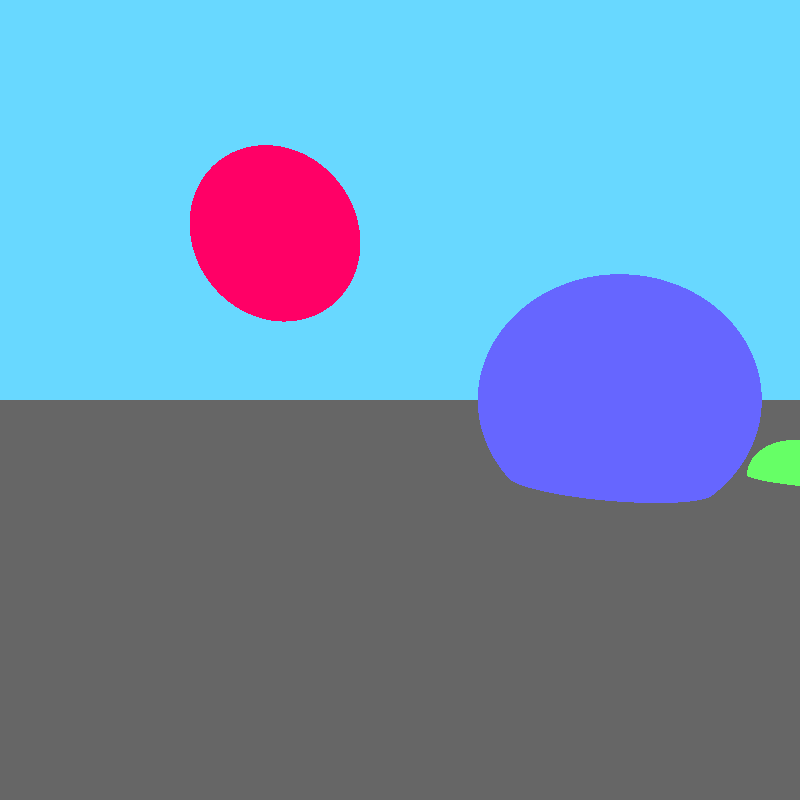
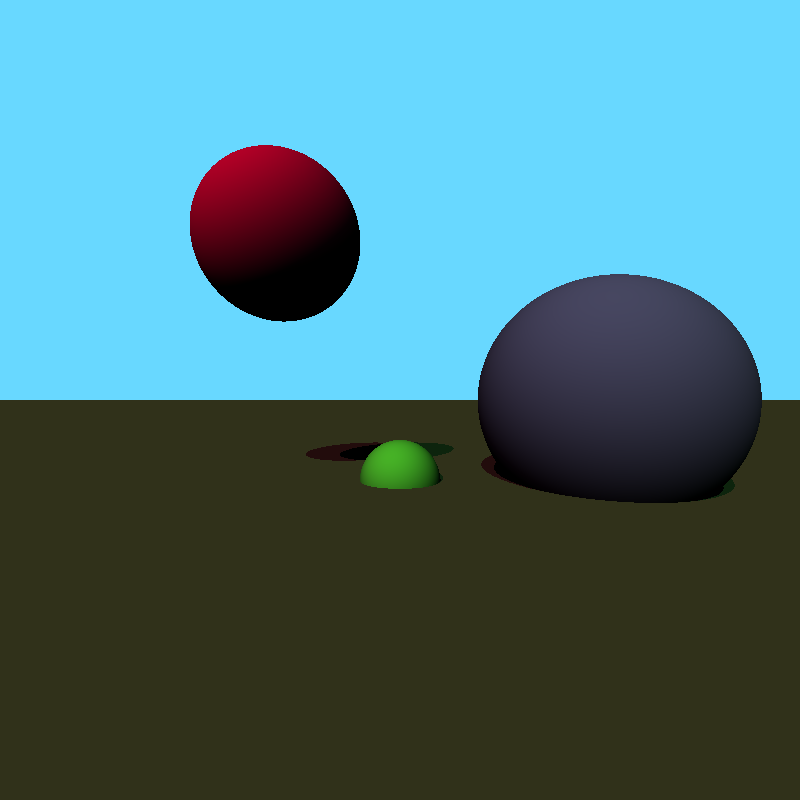
feat: basic lighting and shadows

diff --git a/src/main.rs b/src/main.rs
@@ -6,6 +6,7 @@ use pbrt::point::Point;
 use pbrt::rendering::{Intersectable, Ray};
 use pbrt::scene::{Color, Element, Plane, Scene, Sphere};
 use pbrt::vector3::Vector3;
+use pbrt::light::Light;
 
 mod pbrt;
 
@@ -28,7 +29,14 @@ fn main() {
     b: 1.0,
   };
 
+  let _white = Color {
+    r: 1.0,
+    g: 1.0,
+    b: 1.0,
+  };
+
   let scene = Scene {
+    shadow_bias: 1e-13,
     width: 800,
     height: 800,
     fov: 90.0,
@@ -37,19 +45,34 @@ fn main() {
       g: 0.85,
       b: 1.0,
     },
+    lights: vec![
+      Light { 
+        color: Color { r: 0.3, g: 0.8, b: 0.3},
+        direction: Vector3 {x: 0.25, y: -1.0, z: -1.0},
+        intensity: 10.0
+      },
+      Light { 
+        color: Color { r: 0.8, g: 0.3, b: 0.3},
+        direction: Vector3 {x: 0.25, y: -0.5, z: -0.5},
+        intensity: 10.0
+      }
+    ],
     entities: vec![
       Element::Plane(Plane {
-        origin: Point::new(0.0, -2.0, -5.0),
+        origin: Point::new(0.0, -2.0, 0.0),
         normal: Vector3::down(),
         color: Color {
           r: 0.4,
           g: 0.4,
           b: 0.4,
         },
+        albedo: 0.2,
       }),
-      Element::Sphere(Sphere::new(Point::new(-3.0, 4.0, -10.0), 2.0, red)),
-      Element::Sphere(Sphere::new(Point::new(0.0, -2.0, -10.0), 1.0, green)),
-      Element::Sphere(Sphere::new(Point::new(5.0, 0.0, -10.0), 3.0, blue)),
+      Element::Sphere(Sphere::new(
+        Point::new(-3.0, 4.0, -10.0), 2.0, red, 0.2),
+      ),
+      Element::Sphere(Sphere::new(Point::new(0.0, -2.0, -10.0), 1.0, green, 0.2)),
+      Element::Sphere(Sphere::new(Point::new(5.0, 0.0, -10.0), 3.0, blue, 0.2)),
     ],
   };
 
@@ -61,8 +84,30 @@ fn render(scene: &Scene) -> ImageBuffer<image::Rgba<u8>, Vec<u8>> {
     let ray = Ray::create_prime(x, y, scene);
 
     if let Some(intersection) = scene.trace(&ray) {
-      let rgba = intersection.object.color().to_rgba();
-      image::Rgba(rgba)
+      let hit_point = ray.origin + (ray.direction * intersection.distance);
+      let surface_normal = intersection.object.surface_normal(&hit_point);
+
+      let mut color = Color {r: 0.0, g: 0.0, b: 0.0};
+
+      for light in &scene.lights {
+
+        let direction_to_light = -light.direction.normalize();
+
+        let shadow_ray = Ray {
+            origin: hit_point + (surface_normal * scene.shadow_bias),
+            direction: direction_to_light,
+        };
+
+        let in_light = scene.trace(&shadow_ray).is_none();
+
+        let light_reflected = intersection.object.albedo() / std::f32::consts::PI;
+
+        let light_intensity = if in_light { light.intensity } else { 0.0 };
+        let light_power = (surface_normal.dot(&direction_to_light) as f32).max(0.0) * light_intensity;
+
+        color = color + intersection.object.color() * light.color * light_power * light_reflected;
+      }
+      image::Rgba(color.clamp().to_rgba())
     } else {
       image::Rgba(scene.background.to_rgba())
     }

diff --git a/src/pbrt/scene.rs b/src/pbrt/scene.rs
@@ -1,10 +1,14 @@
 extern crate image;
 extern crate serde;
 
+use std::ops::{Mul, Add};
 use pbrt::point::Point;
 use pbrt::rendering::{Intersectable, Ray};
 use pbrt::vector3::Vector3;
+use pbrt::light::Light;
 
+#[derive(Debug, Clone, Copy)]
+#[repr(C)]
 pub struct Color {
   pub r: f32,
   pub g: f32,
@@ -20,6 +24,14 @@ impl Color {
     }
   }
 
+  pub fn clamp(&self) -> Color {
+    Color {
+      r: self.r.min(1.0).max(0.0),
+      g: self.g.min(1.0).max(0.0),
+      b: self.b.min(1.0).max(0.0),
+    }
+  }
+
   pub fn to_rgba(&self) -> [u8; 4] {
     // TODO: gamma correction
     [
@@ -31,10 +43,55 @@ impl Color {
   }
 }
 
+impl Mul for Color {
+  type Output = Color;
+
+  fn mul(self, other: Color) -> Color {
+    Color {
+      r: self.r * other.r,
+      g: self.g * other.g,
+      b: self.b * other.b,
+    }
+  }
+}
+
+impl Mul<f32> for Color {
+  type Output = Color;
+
+  fn mul(self, other: f32) -> Color {
+    Color {
+      r: self.r * other,
+      g: self.g * other,
+      b: self.b * other,
+    }
+  }
+}
+
+impl Mul<Color> for f32 {
+  type Output = Color;
+
+  fn mul(self, other: Color) -> Color {
+    other * self
+  }
+}
+
+impl Add for  Color{
+  type Output = Color;
+
+  fn add(self, other: Color) -> Color {
+    Color {
+      r: self.r + other.r,
+      g: self.g + other.g,
+      b: self.b + other.b,
+    }
+  }
+}
+
 pub struct Plane {
   pub origin: Point,
   pub normal: Vector3,
   pub color: Color,
+  pub albedo: f32,
 }
 
 pub enum Element {
@@ -43,10 +100,17 @@ pub enum Element {
 }
 
 impl Element {
-  pub fn color(&self) -> &Color {
+  pub fn color(&self) -> Color {
     match *self {
-      Element::Sphere(ref s) => &s.color,
-      Element::Plane(ref p) => &p.color,
+      Element::Sphere(ref s) => s.color.clone(),
+      Element::Plane(ref p) => p.color.clone(),
+    }
+  }
+
+  pub fn albedo(&self) -> f32 {
+    match *self {
+      Element::Sphere(ref s) => s.albedo,
+      Element::Plane(ref p) => p.albedo,
     }
   }
 }
@@ -58,20 +122,29 @@ impl Intersectable for Element {
       Element::Plane(ref p) => p.intersect(&ray),
     }
   }
+
+  fn surface_normal(&self, hit_point: &Point) -> Vector3 {
+    match *self {
+      Element::Sphere(ref s) => s.surface_normal(&hit_point),
+      Element::Plane(ref p) => p.surface_normal(&hit_point),
+    }
+  }
 }
 
 pub struct Sphere {
   pub center: Point,
   pub radius: f64,
   pub color: Color,
+  pub albedo: f32,
 }
 
 impl Sphere {
-  pub fn new(center: Point, radius: f64, color: Color) -> Sphere {
+  pub fn new(center: Point, radius: f64, color: Color, albedo: f32) -> Sphere {
     Sphere {
       center,
       radius,
       color,
+      albedo
     }
   }
 }
@@ -93,6 +166,8 @@ pub struct Scene {
   pub fov: f64,
   pub background: Color,
   pub entities: Vec<Element>,
+  pub lights: Vec<Light>,
+  pub shadow_bias: f64,
 }
 
 impl Scene {

diff --git a/src/pbrt/rendering.rs b/src/pbrt/rendering.rs
@@ -29,6 +29,7 @@ impl Ray {
 
 pub trait Intersectable {
   fn intersect(&self, ray: &Ray) -> Option<f64>;
+  fn surface_normal(&self, hit_point: &Point) -> Vector3;
 }
 
 impl Intersectable for Sphere {
@@ -56,6 +57,10 @@ impl Intersectable for Sphere {
     let distance = if t0 < t1 { t0 } else { t1 };
     Some(distance)
   }
+
+  fn surface_normal(&self, hit_point: &Point) -> Vector3 {
+    (*hit_point - self.center).normalize()
+  }
 }
 
 impl Intersectable for Plane {
@@ -70,5 +75,9 @@ impl Intersectable for Plane {
       }
     }
     None
+  }
+
+  fn surface_normal(&self, _: &Point) -> Vector3 {
+    -self.normal
   }
 }

diff --git a/src/pbrt/vector3.rs b/src/pbrt/vector3.rs
@@ -27,6 +27,14 @@ impl Vector3 {
     }
   }
 
+  pub fn up() -> Vector3 {
+    Vector3 {
+      x: 0.0,
+      y: 1.0,
+      z: 0.0,
+    }
+  }
+
   pub fn from_one(v: f64) -> Vector3 {
     Vector3 { x: v, y: v, z: v }
   }

diff --git a/src/pbrt/light.rs b/src/pbrt/light.rs
@@ -1,0 +1,8 @@
+use pbrt::vector3::Vector3;
+use pbrt::scene::Color;
+
+pub struct Light {
+  pub direction: Vector3,
+  pub color: Color,
+  pub intensity: f32 
+}

diff --git a/src/pbrt/mod.rs b/src/pbrt/mod.rs
@@ -5,3 +5,4 @@ pub mod point;
 pub mod rendering;
 pub mod scene;
 pub mod vector3;
+pub mod light;

diff --git a/README.md b/README.md
@@ -9,3 +9,7 @@ Based on:
 - https://bheisler.github.io/post/writing-raytracer-in-rust-part-1/
 - http://pbrt.org/
 - https://pharr.org/matt/blog/2018/07/16/moana-island-pbrt-all.html
+
+### Current progress
+
+![presentation](https://raw.githubusercontent.com/baransu/pbrt-rs/master/test.png)
